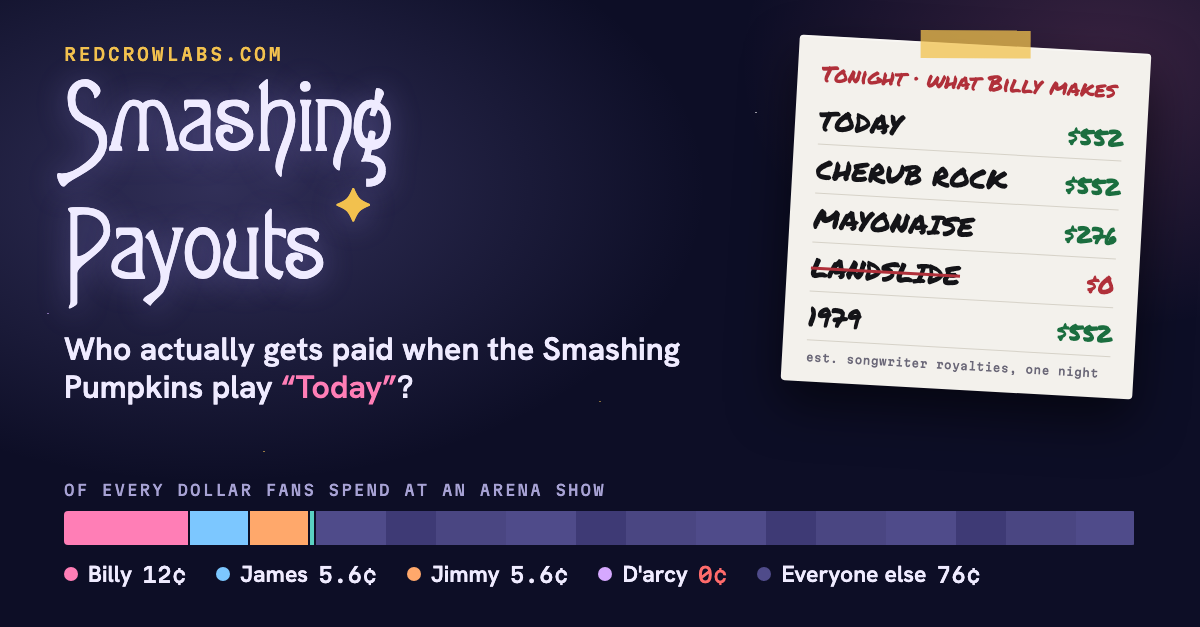
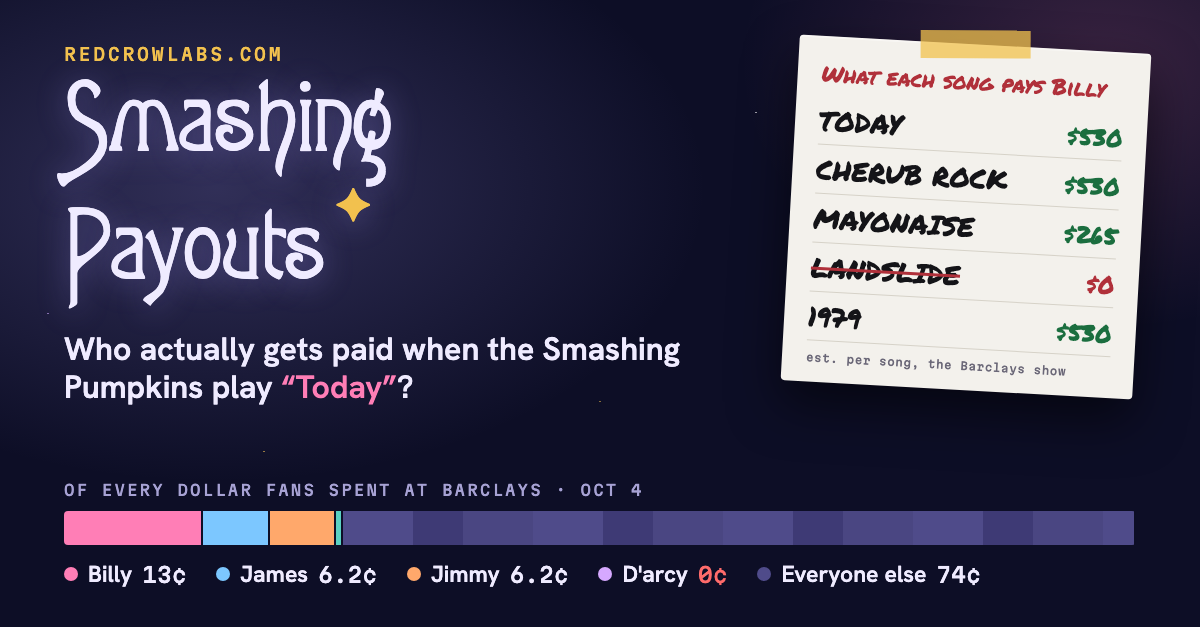
Smashing Payouts: default to the Barclays Center show (Oct 4, 2026) and its real setlist

diff --git a/smashing-payouts/index.html b/smashing-payouts/index.html
@@ -340,7 +340,7 @@ dialog.note::backdrop { background: rgba(6, 6, 22, .72); backdrop-filter: blur(3
     <p class="lede">Pick a money stream, drag the assumptions, and watch a fan's dollar split between the label, the middlemen, the hired players and the four people who made the records. Every default is a ballpark guess. The real band agreements are private.</p>
     <button class="art" type="button" id="artSheet" aria-label="Build a setlist">
       <span class="tape" aria-hidden="true"></span>
-      <span class="ah">Tonight · what Billy makes</span>
+      <span class="ah">What each song pays Billy</span>
       <span class="ar"><span class="at">Today</span><span class="av">$$$$</span></span>
       <span class="ar"><span class="at">Cherub Rock</span><span class="av">$$$$</span></span>
       <span class="ar"><span class="at">Mayonaise</span><span class="av">$$</span></span>
@@ -571,7 +571,7 @@ function recordWhy(b, alb, recLabel) {
 
 
 // songs that turn up in setlists, with writing credits (Corgan alone unless noted)
-const C = (title, writers = ['billy'], aliases = []) => ({ title, writers, aliases });
+const C = (title, writers = ['billy'], aliases = [], extra = {}) => ({ title, writers, aliases, ...extra });
 const CATALOG = {
   siva: C('Siva'), rhinoceros: C('Rhinoceros'), iamone: C('I Am One', ['billy', 'james']), tristessa: C('Tristessa'), snail: C('Snail'),
   daughter: C('Daughter', ['billy', 'darcy']), starla: C('Starla'), drown: C('Drown'), blewaway: C('Blew Away', ['james']),
@@ -585,8 +585,17 @@ const CATALOG = {
   ava: C('Ava Adore'), perfect: C('Perfect'), eye: C('Eye'), tear: C('Tear'),
   standinside: C('Stand Inside Your Love'), everlasting: C('The Everlasting Gaze', ['billy'], ['everlasting gaze']),
   nlmda: C('Never Let Me Down Again', ['gore']), tarantula: C('Tarantula'), solara: C('Solara'), cyr: C('Cyr'),
-  cupid: C('Cupid de Locke'), spaceboy: C('Spaceboy'), beguiled: C('Beguiled'), doomsday: C('Doomsday Clock'), sighommi: C('Sighommi'), empires: C('Empires'),
+  cupid: C('Cupid de Locke'), bodies: C('Bodies'), galapogos: C('Galapogos', ['billy'], ['galapagos']), herenowhy: C('Here Is No Why'),
+  toforgive: C('To Forgive'), bystarlight: C('By Starlight'), mcistitle: C('Mellon Collie and the Infinite Sadness'),
+  edin: C('Edin'), pentagrams: C('Pentagrams'), wardreams: C('War Dreams of Itself'), asromeburns: C('As Rome Burns'), superchrist: C('Superchrist'),
+  sojourner: C('Sojourner', ['billy'], [], { assumed: true }), jesussun: C('Jesus Is the Sun', ['billy'], [], { assumed: true }), spaceboy: C('Spaceboy'), beguiled: C('Beguiled'), doomsday: C('Doomsday Clock'), sighommi: C('Sighommi'), empires: C('Empires'),
 };
+// The Barclays Center show, Brooklyn, Oct 4, 2026 (from setlist.fm)
+const BARCLAYS_SET = ['1979', 'bullet', 'cupid', 'porcelina', 'jellybelly', 'bodies', 'galapogos', 'thirtythree', 'tonight', 'herenowhy',
+  'toforgive', 'fuckyou', 'zero', 'muzzle', 'bystarlight', 'mcistitle',
+  'bullet', 'sojourner', 'edin', 'pentagrams', 'disarm', 'ava', 'wardreams', 'mayonaise', 'asromeburns', 'today', 'cherub', 'jesussun', 'everlasting', 'superchrist'];
+const BARCLAYS_URL = 'https://www.setlist.fm/setlist/the-smashing-pumpkins/2026/barclays-center-brooklyn-ny-23741cbf.html';
+const BARCLAYS_MSG = `The Barclays Center show, Oct 4, 2026: 30 songs across the Mellon Collie set and a second set. Setlist from <a href="${BARCLAYS_URL}" target="_blank" rel="noopener">setlist.fm</a>. "Bullet with Butterfly Wings" was played twice (once solo by Kristeen Young), so it pays Billy twice. Credits marked "?" are unconfirmed and counted as Corgan songs.`;
 const SAMPLE_SET = ['siva', 'rhinoceros', 'today', 'cherub', 'zero', 'mayonaise', 'thirtythree', 'ava', 'landslide', 'disarm',
   'tarantula', 'tonight', '1979', 'nlmda', 'solara', 'hummer', 'bullet', 'silverfuck'];
 const surname = id => ({ opener: 'Opener', other: 'Cover' })[id] || PEOPLE[id].name.split(' ').slice(-1)[0];
@@ -606,7 +615,7 @@ function parseSetlist(text) {
   }
   return { found, skipped };
 }
-let slMsg = '', slShow = '';
+let slMsg = BARCLAYS_MSG, slShow = 'Barclays Center · Oct 4, 2026';
 // Real shows from setlist.fm, through the site's own proxy (/api/smashing-setlists).
 // Only works on redcrowlabs.com; anywhere else the search stays hidden and paste still works.
 const SF = { ready: null, year: '', q: '', page: 1, shows: [], more: false, busy: false, err: '' };
@@ -656,7 +665,7 @@ function sfLoad(show) {
 const BASE_ROOM = { tax: 6, promo: 15, agent: 10, mgr: 15, biz: 5, sal: 2500, vmerch: 20, cogs: 32 };
 const ROOMS = {
   arena:    { label: 'A typical arena night', set: { cap: 14000, sell: 92, price: 95, fee: 18, cost: 28, prod: 175000, head: 14 } },
-  barclays: { label: 'Barclays Center, Brooklyn (Oct 2026)', set: { cap: 16500, sell: 96, price: 115, fee: 24, cost: 30, prod: 175000, head: 16, vmerch: 25 },
+  barclays: { label: 'Barclays Center, Brooklyn (Oct 4, 2026)', set: { cap: 17700, sell: 96, price: 115, fee: 24, cost: 30, prod: 175000, head: 16, vmerch: 25 },
     note: "Ballpark guesses for a Brooklyn arena night. The real settlement isn't public." },
   legion:   { label: 'American Legion Theater, Hollywood (May 2026)', set: { cap: 500, sell: 100, price: 150, fee: 25, tax: 0, cost: 35, prod: 60000, head: 45 },
     note: 'The "In Memoriam: Zero" show: about 500 seats, a coffin on stage and two sets. Small special shows like this often lose money on purpose; they\'re marketing, not income.' },
@@ -910,7 +919,7 @@ const SCEN = {
     tab: 'Build a setlist', admit: 'Songwriter pay, song by song',
     about: "The same night as the tour tab. Venues and promoters pay ASCAP and BMI a small slice of the ticket sales, and the setlist decides which songwriters get it. Build one, or paste a real one from setlist.fm.",
     groups: [
-      { name: 'The setlist', controls: [ { id: 'set', type: 'setlist', value: SAMPLE_SET } ]},
+      { name: 'The setlist', controls: [ { id: 'set', type: 'setlist', value: BARCLAYS_SET } ]},
       { name: 'The night', controls: [
         { id: 'src', label: 'Ticket sales', type: 'select', value: 'tour', rerender: true, options: [['tour', 'Same night as the tour tab'], ['custom', 'Set my own']] },
         { id: 'gross', label: 'Ticket sales for the night', type: 'range', min: 0, max: 6000000, step: 10000, value: 1220000, fmt: usd, show: v => v.src === 'custom' },
@@ -1203,6 +1212,7 @@ const defaults = {};
 for (const [k, s] of Object.entries(SCEN)) {
   defaults[k] = {};
   s.groups.forEach(g => g.controls.forEach(c => defaults[k][c.id] = c.value));
+  if (k === 'tour') { defaults.tour.room = 'barclays'; applyRoom(defaults.tour); }
   state[k] = JSON.parse(JSON.stringify(defaults[k]));
 }
 let cur = 'tour';
@@ -1266,7 +1276,8 @@ function renderControls() {
           <textarea id="setlist-paste" rows="4" placeholder="Copy the song list from a show on setlist.fm and paste it here, one song per line."></textarea>
           <div class="sl-btns">
             <button type="button" class="sl-btn primary" id="setlist-load">Use pasted setlist</button>
-            <button type="button" class="sl-btn" id="setlist-sample">Load sample</button>
+            <button type="button" class="sl-btn" id="setlist-sample">Barclays show</button>
+            <button type="button" class="sl-btn" id="setlist-hits">Hits + covers</button>
             <button type="button" class="sl-btn" id="setlist-clear">Clear</button>
           </div>
           <p class="sl-msg" id="setlist-msg">${slMsg}</p>
@@ -1274,7 +1285,8 @@ function renderControls() {
         const redo = () => { renderControls(); update(); };
         row.querySelectorAll('.sl-x').forEach(btn => btn.addEventListener('click', () => { v.set.splice(+btn.dataset.i, 1); slMsg = ''; redo(); }));
         row.querySelector('#setlist-addbtn').addEventListener('click', () => { v.set.push(row.querySelector('#setlist-add').value); slMsg = ''; redo(); });
-        row.querySelector('#setlist-sample').addEventListener('click', () => { v.set = SAMPLE_SET.slice(); slShow = ''; slMsg = 'Loaded a sample setlist. It\'s an example, not a specific show.'; redo(); });
+        row.querySelector('#setlist-sample').addEventListener('click', () => { v.set = BARCLAYS_SET.slice(); slShow = 'Barclays Center · Oct 4, 2026'; slMsg = BARCLAYS_MSG; redo(); });
+        row.querySelector('#setlist-hits').addEventListener('click', () => { v.set = SAMPLE_SET.slice(); slShow = ''; slMsg = 'A made-up set of hits with two covers ("Landslide" and "Never Let Me Down Again"), to show what covers do. Not a real show.'; redo(); });
         row.querySelector('#setlist-clear').addEventListener('click', () => { v.set = []; slMsg = ''; slShow = ''; redo(); });
         sfProbe(() => { if (SF.ready && cur === 'setlist') renderControls(); });
         const sfGo = () => { SF.year = row.querySelector('#sf-year').value; SF.q = row.querySelector('#sf-q').value.trim(); sfSearch(() => { if (cur === 'setlist') renderControls(); }); };
